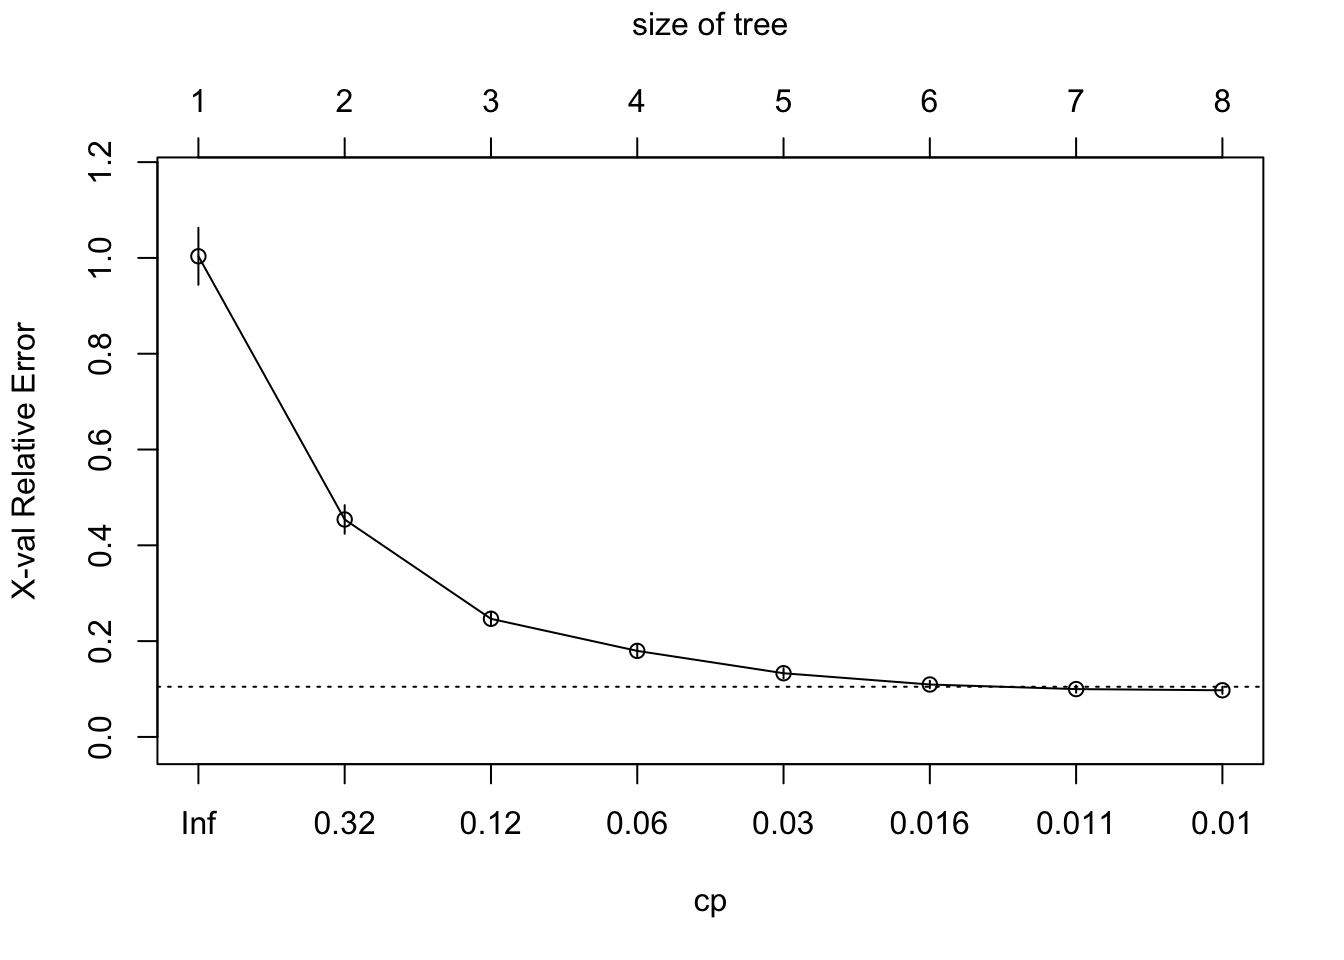
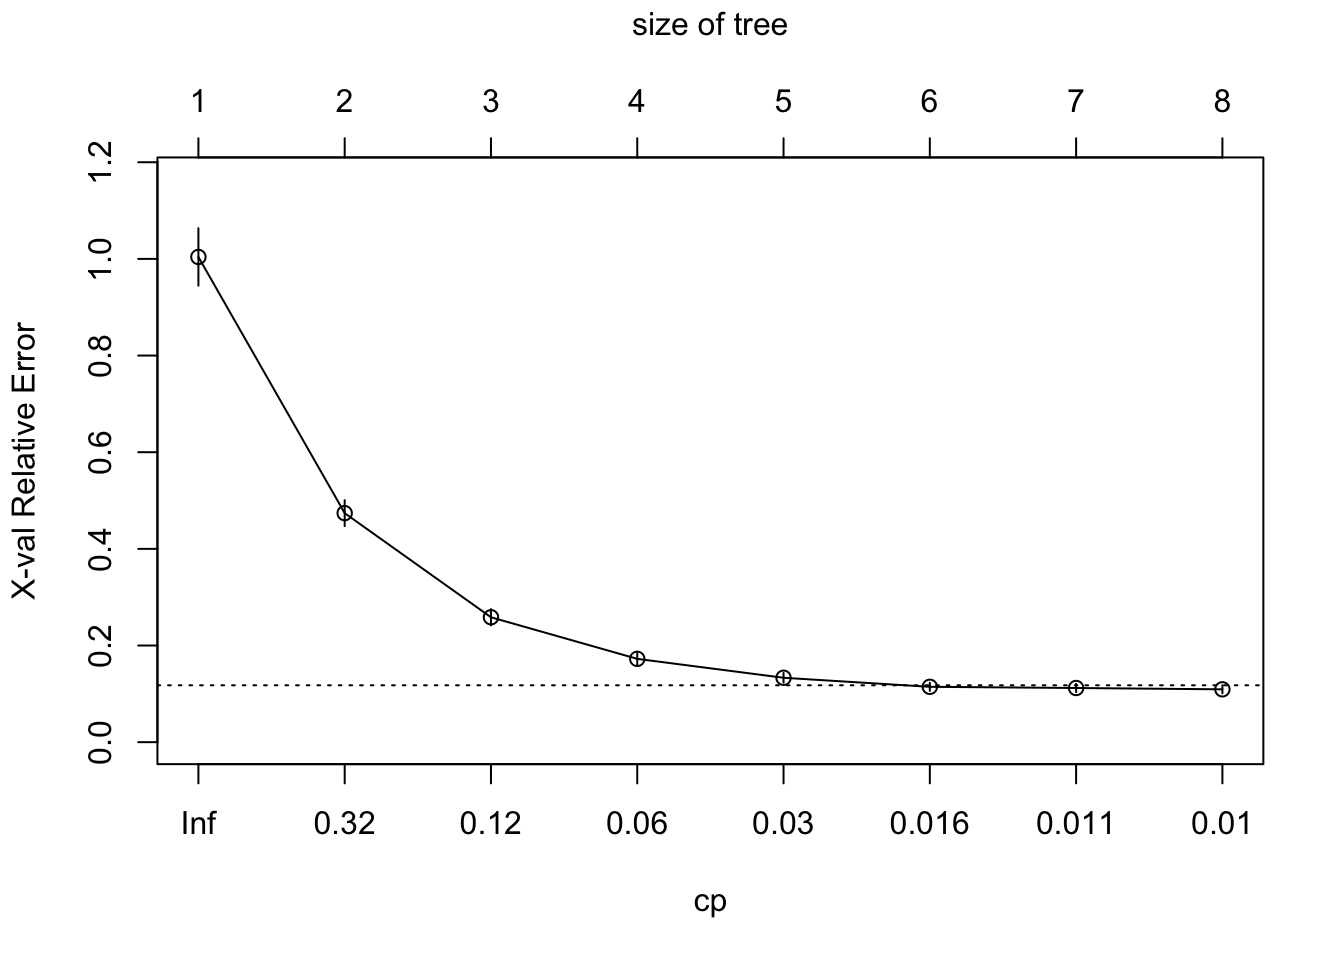
cleaned styles

diff --git a/index.html b/index.html
@@ -252,7 +252,7 @@ for(i in 2:(length(AdData2))) {
 }</code></pre>
 <p>Identify the model with the best performance</p>
 <pre class="r"><code>paste(&quot;The model with best performance is based on the&quot;, names(AdData2[index]), &quot;column with a mean squared error of:&quot;, min)</code></pre>
-<pre><code>## [1] &quot;The model with best performance is based on the TV.Radio column with a mean squared error of: 1.81949686106092&quot;</code></pre>
+<pre><code>## [1] &quot;The model with best performance is based on the TV.Radio column with a mean squared error of: 2.93982634929259&quot;</code></pre>
 <pre class="r"><code>summary(finalRegModel)</code></pre>
 <pre><code>## 
 ## Call:
@@ -260,24 +260,26 @@ for(i in 2:(length(AdData2))) {
 ## 
 ## Residuals:
 ##     Min      1Q  Median      3Q     Max 
-## -7.2795 -0.4495  0.1969  0.8404  2.7185 
+## -7.3919 -0.4061  0.1685  0.8213  2.6148 
 ## 
 ## Coefficients:
 ##                         Estimate Std. Error t value Pr(&gt;|t|)    
-## (Intercept)            8.838e+00  1.620e-01   54.56   &lt;2e-16 ***
-## get(names(AdData2[i])) 1.486e-03  3.266e-05   45.51   &lt;2e-16 ***
+## (Intercept)            8.951e+00  1.502e-01   59.58   &lt;2e-16 ***
+## get(names(AdData2[i])) 1.475e-03  3.014e-05   48.93   &lt;2e-16 ***
 ## ---
 ## Signif. codes:  0 &#39;***&#39; 0.001 &#39;**&#39; 0.01 &#39;*&#39; 0.05 &#39;.&#39; 0.1 &#39; &#39; 1
 ## 
-## Residual standard error: 1.403 on 158 degrees of freedom
-## Multiple R-squared:  0.9291, Adjusted R-squared:  0.9287 
-## F-statistic:  2071 on 1 and 158 DF,  p-value: &lt; 2.2e-16</code></pre>
+## Residual standard error: 1.303 on 158 degrees of freedom
+## Multiple R-squared:  0.9381, Adjusted R-squared:  0.9377 
+## F-statistic:  2394 on 1 and 158 DF,  p-value: &lt; 2.2e-16</code></pre>
 <p>For the model with the best performance, calculate the residuals and display them using a histogram.</p>
 <pre class="r"><code>plot(hist(residuals(finalRegModel)))</code></pre>
-<p><img src="index_files/figure-html/unnamed-chunk-6-1.png" width="672" /><img src="index_files/figure-html/unnamed-chunk-6-2.png" width="672" /> Use the residuals to also plot the normal probability plot that also shows the corresponding straight line. We can see that most of the errors are normlly distirbuted. Except the first bit where we see some of the errors are lower than the rest. This could be because we did not clean the data before running the model.</p>
+<p><img src="index_files/figure-html/unnamed-chunk-6-1.png" width="672" /><img src="index_files/figure-html/unnamed-chunk-6-2.png" width="672" /></p>
+<p>Use the residuals to also plot the normal probability plot that also shows the corresponding straight line. We can see that most of the errors are normlly distirbuted. Except the first bit where we see some of the errors are lower than the rest. This could be because we did not clean the data before running the model.</p>
 <pre class="r"><code>qqnorm(residuals(finalRegModel))
 qqline(residuals(finalRegModel))</code></pre>
-<p><img src="index_files/figure-html/unnamed-chunk-7-1.png" width="672" /> Read the advertising_set2.csv data</p>
+<p><img src="index_files/figure-html/unnamed-chunk-7-1.png" width="672" /></p>
+<p>Read the advertising_set2.csv data</p>
 <pre class="r"><code>AdSet &lt;- read.csv(&quot;advertising_set2.csv&quot;, header = TRUE)
 head(AdSet)</code></pre>
 <pre><code>##       TV  radio newspaper  sales id
@@ -304,7 +306,8 @@ plot(pruned_decTreeModel,margin = 0.01)
 text(pruned_decTreeModel)</code></pre>
 <p><img src="index_files/figure-html/unnamed-chunk-9-3.png" width="672" /></p>
 <pre class="r"><code>plotcp(decTreeModel) </code></pre>
-<p><img src="index_files/figure-html/unnamed-chunk-9-4.png" width="672" /> Create a linear regression model (do not create non-linear models)</p>
+<p><img src="index_files/figure-html/unnamed-chunk-9-4.png" width="672" /></p>
+<p>Create a linear regression model (do not create non-linear models)</p>
 <pre class="r"><code>linRegModel &lt;- lm(sales~.-id,data=AdSet)
 summary(linRegModel)</code></pre>
 <pre><code>## 
@@ -386,7 +389,7 @@ if (regModelMSE&gt;decTreeModelMSE){
 } else {
   paste(&quot;Regression Model is reccomended due to a lower mean squared error of&quot;, decTreeModelMSE )
 }</code></pre>
-<pre><code>## [1] &quot;Regression Model is reccomended due to a lower mean squared error of 128.347456681621&quot;</code></pre>
+<pre><code>## [1] &quot;Regression Model is reccomended due to a lower mean squared error of 107.970024893513&quot;</code></pre>
 <p><strong>Regression Models</strong></p>
 <p><em>Advantages</em><br />
 - Even when a linear regression model does not fit the data exactly, we can use it to find the nature of the relationship between the two variables.</p>
